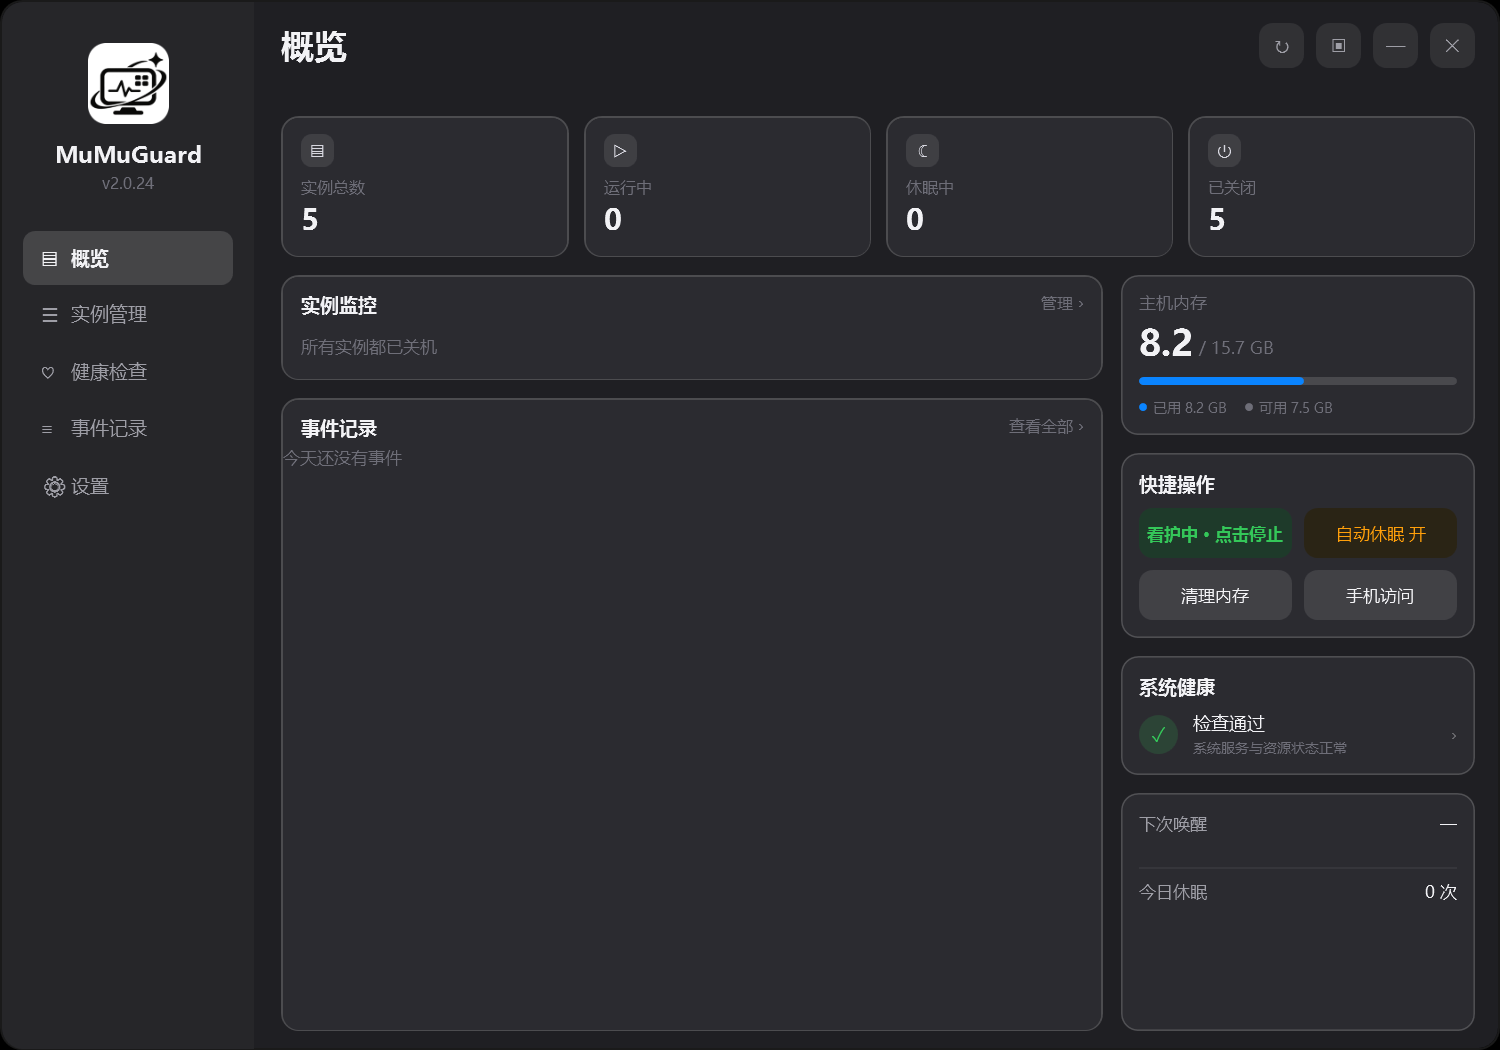
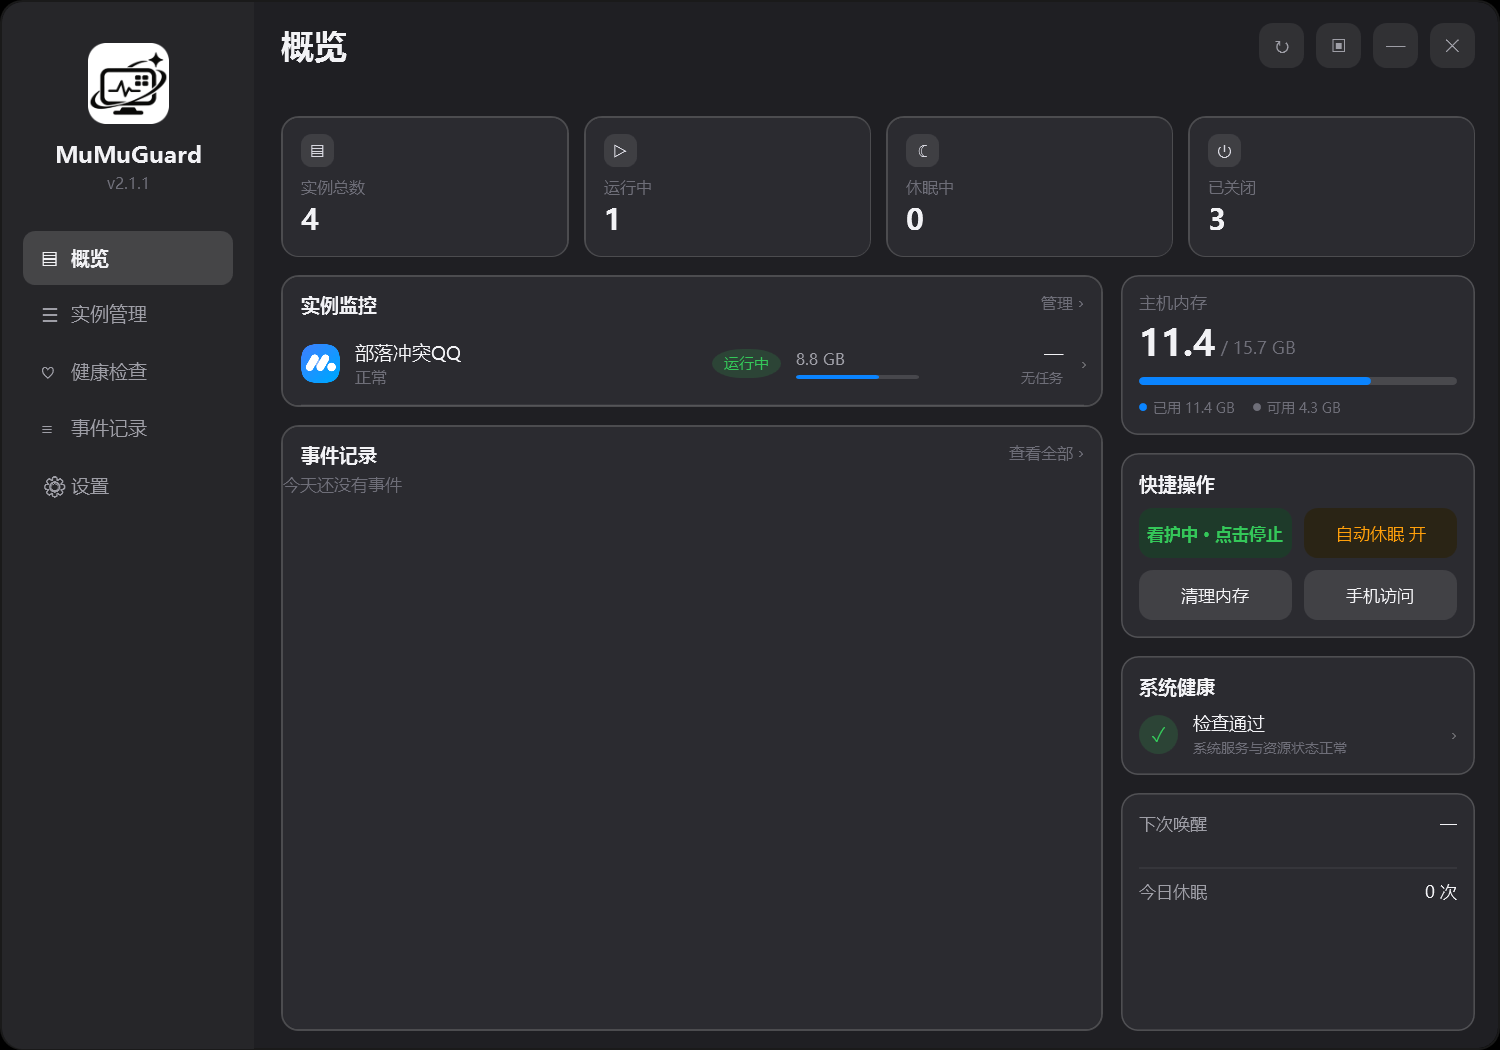
修复实例内存统计并发布 2.1.1：MuMu 新引擎把虚拟机内存放在 MuMuVMMHeadless.exe，之前只统计前端 MuMuNxDevice 导致 6G 实例显示成 0.1GB。现在按实例号合并统计（优先解析 --comment MuMuPlayer-x-y，兜底 --startvm uuid 末段），行对象增加 DeviceMB/VmmPID/VmmMB；实例详情页此前误读不存在的 $row.MemMB，改为 $row.Private 后恢复显示内存占用；内存刻度 +2500 调整为 +3000，逐实例内存告警阈值改为 max(配置值, 实例刻度) 避免正常实例误报；新增 Get-
实测（exe 2.1.1）：6G 实例 = MuMuNxDevice 113MB + MuMuVMMHeadless 8905MB = 9018MB，环 99% 正常；自检 33 项全过，详情内存行 8965MB；面板概览显示 8.7GB（修复前 0.1GB）。

diff --git a/README.md b/README.md
@@ -1,10 +1,10 @@
-<img src="icon.png" width="80" align="left" style="margin-right:14px" alt="MuMuGuard">
+<img src="icon.png" width="80" align="left" style="margin-right:14px" alt="MuMuGuard">
 
 # MuMuGuard：MuMu 模拟器多开看护面板
 
 盯着每个实例，掉线自动拉起，等升级时休眠省内存，醒来自动接着跑。
 
-![版本](https://img.shields.io/badge/version-2.0.24-3DDC84)
+![版本](https://img.shields.io/badge/version-2.1.1-3DDC84)
 ![平台](https://img.shields.io/badge/platform-Windows%2010%20%7C%2011-0A0D14)
 ![许可](https://img.shields.io/badge/license-MIT-blue)
 ![QQ 群](https://img.shields.io/badge/QQ%E7%BE%A4-1128379535-12B7F5)
@@ -23,6 +23,10 @@ MuMuGuard 是给 MuMu 模拟器多开用的看护面板，运行在 Windows 10 /
 
 ---
 
+## 2.1.1 更新了什么
+
+- **修复了一些问题**。
+- **实例内存统计更准确**：新 MuMu 引擎把虚拟机内存放在 MuMuVMMHeadless.exe，之前只统计前端进程，6G 实例会显示成 0.1GB；现在合并统计，概览 / 实例管理 / 实例详情 / 手机端一致；实例详情页的内存占用行也恢复显示。
 ## 2.0.24 更新了什么
 
 - **修复「手机上休眠/关机实例看不到资源量」**：手机端（局域网页和出门在外共用）状态里，休眠和已关机实例是单独补进列表的，补的时候漏了资源字段，所以只显示「尚未采集」。现在会带上磁盘上最近一次的采集结果（主世界金/圣/黑、夜世界兵金/兵圣），并标「上次」和采集时间。
